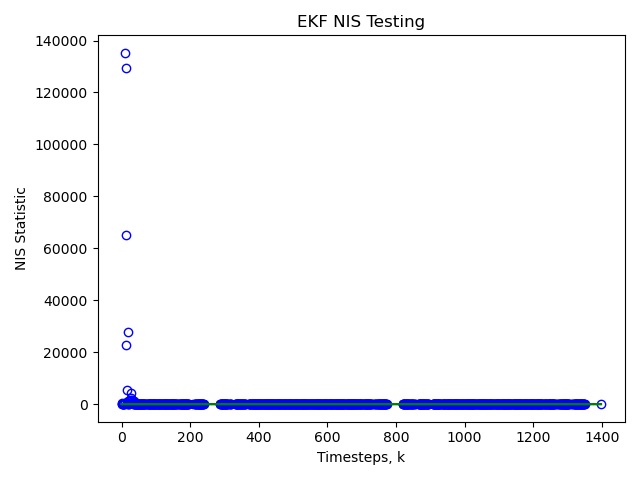
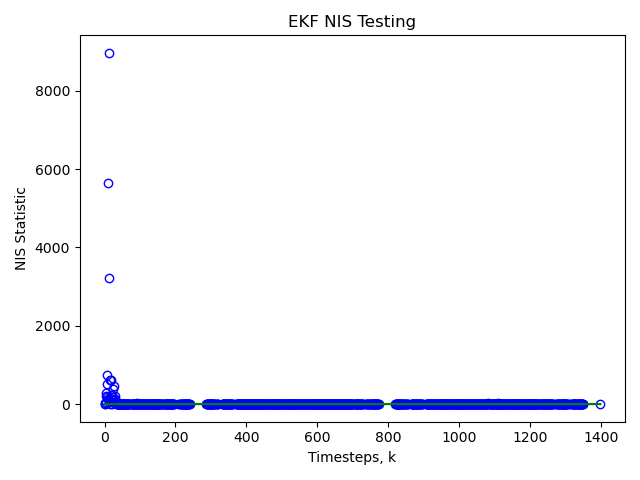
nees_nis changes

diff --git a/ASEN_5044_final_aj_fatah.py b/ASEN_5044_final_aj_fatah.py
@@ -691,7 +691,7 @@ def LKF(x0, P0, dT, T, Qtrue, Rtrue, ydata, Q_LKF = np.eye(2)*1e-10, plot=False)
                 station_state = [Xi, Xidot, Yi, Yidot]
                 
                 # nominal sensor measurement at time k+1
-                state = [x, xdot, y, ydot]
+                state = x_nom.flatten()
                 rho, rho_dot, phi = dyn_measurements(state, station_state)
                 ystar_id = np.array([[rho],[rho_dot],[phi]])
                 if ystar.size == 0:
@@ -1128,7 +1128,7 @@ if __name__ == "__main__":
     
     # Monte-Carlo parameters
     np.random.seed(100)  # Random Set Seed
-    num_mc_runs = 20     # Number of Monte-Carlo Runs
+    num_mc_runs = 30     # Number of Monte-Carlo Runs
     alpha = 0.05         # Confidence
     
     T_tot = round(np.sqrt((4*(np.pi**2)*(r0**3))/mu))   # orbital period, s
@@ -1165,10 +1165,10 @@ if __name__ == "__main__":
     ydata_sim = monte_carlo_measurements_tmt(x0,Qtrue,Rtrue,T,plot=False)
     
     # KF Tunings
-    Q_LKF = np.eye(2) * 1e-6
-    P0_LKF = np.diag([0.01,0.001,0.01,0.001])
+    Q_LKF = np.diag([1e+4,1e+1])
+    P0_LKF = np.diag([100,1,100,1])
     Q_EKF = np.eye(2) * 1e-8
-    P0_EKF = np.diag([0.01,0.01,0.01,0.01])
+    P0_EKF = np.diag([10,0.1,10,0.1])
     
     start = time()
     NEES_array = []
@@ -1180,17 +1180,19 @@ if __name__ == "__main__":
         NIS_array.append(res_lkf[4])
     print("LKF elapsed:", time() - start)
         
-    NIS_Chi2_Test(np.asarray(NIS_array).T, num_meas, num_mc_runs, alpha, title="LKF NIS Testing")    
+    nis_lkf, stat_lkf = NIS_Chi2_Test(np.asarray(NIS_array).T, num_meas, num_mc_runs, alpha, title="LKF NIS Testing")    
     NEES_Chi2_Test(np.asarray(NEES_array).T, num_states, num_mc_runs, alpha, title="LKF NEES Testing")
     
-    NEES_array = []
-    NIS_array = []
+    print(stat_lkf)
     
-    for i in range(num_mc_runs):
-        res_ekf = EKF(x0, P0_EKF, dT, T, Qtrue, Rtrue, ydata_sim, Q_EKF = Q_EKF)
-        NEES_array.append(res_ekf[3])
-        NIS_array.append(res_ekf[4])
-    print("EKF elapsed:", time() - start)
+    # NEES_array = []
+    # NIS_array = []
+    
+    # for i in range(num_mc_runs):
+        # res_ekf = EKF(x0, P0_EKF, dT, T, Qtrue, Rtrue, ydata_sim, Q_EKF = Q_EKF)
+        # NEES_array.append(res_ekf[3])
+        # NIS_array.append(res_ekf[4])
+    # print("EKF elapsed:", time() - start)
         
-    NIS_Chi2_Test(np.asarray(NIS_array).T, num_meas, num_mc_runs, alpha, title="EKF NIS Testing")    
-    NEES_Chi2_Test(np.asarray(NEES_array).T, num_states, num_mc_runs, alpha, title="EKF NEES Testing")
+    # NIS_Chi2_Test(np.asarray(NIS_array).T, num_meas, num_mc_runs, alpha, title="EKF NIS Testing")    
+    # NEES_Chi2_Test(np.asarray(NEES_array).T, num_states, num_mc_runs, alpha, title="EKF NEES Testing")

diff --git a/nees_nis.py b/nees_nis.py
@@ -51,11 +51,11 @@ def NEES_Chi2_Test(NEES_array, num_states, num_runs, alpha, title="NEES Testing"
     k = np.shape(NEES_array)[0]
     
     NEES_avg = np.nanmean(NEES_array, axis=1)
-    NEES_exp = num_states * np.ones(np.shape(NEES_avg))
+    NEES_exp = num_states * np.ones(np.shape(NEES_avg[np.isfinite(NEES_avg)]))
     r1 = chi2.ppf(alpha/2, df=num_runs*num_states)/num_runs
     r2 = chi2.ppf(1 - (alpha/2), df=num_runs*num_states)/num_runs
     try:
-        res = stats.chisquare(NEES_avg, NEES_exp)
+        res = stats.chisquare(NEES_avg[np.isfinite(NEES_avg)], NEES_exp)
     except:
         res = None
     
@@ -116,11 +116,12 @@ def NIS_Chi2_Test(NIS_array, num_meas, num_runs, alpha, title="NIS Testing"):
     k = np.shape(NIS_array)[0]
     
     NIS_avg = np.nanmean(NIS_array, axis=1)
-    NIS_exp = num_meas * np.ones(np.shape(NIS_avg))
+    #import pdb; pdb.set_trace()
+    NIS_exp = num_meas * np.ones(np.shape(NIS_avg[np.isfinite(NIS_avg)]))
     r1 = chi2.ppf(alpha/2, df=num_runs*num_meas)/num_runs
     r2 = chi2.ppf(1 - (alpha/2), df=num_runs*num_meas)/num_runs
     try:
-        res = stats.chisquare(NIS_avg, NIS_exp)
+        res = stats.chisquare(NIS_avg[np.isfinite(NIS_avg)], NIS_exp)
     except:
         res = None
     
